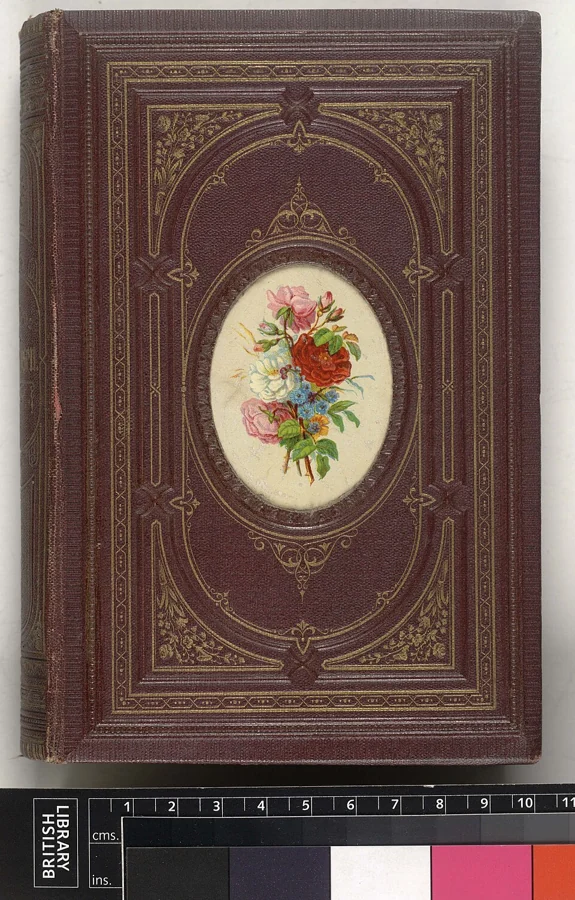
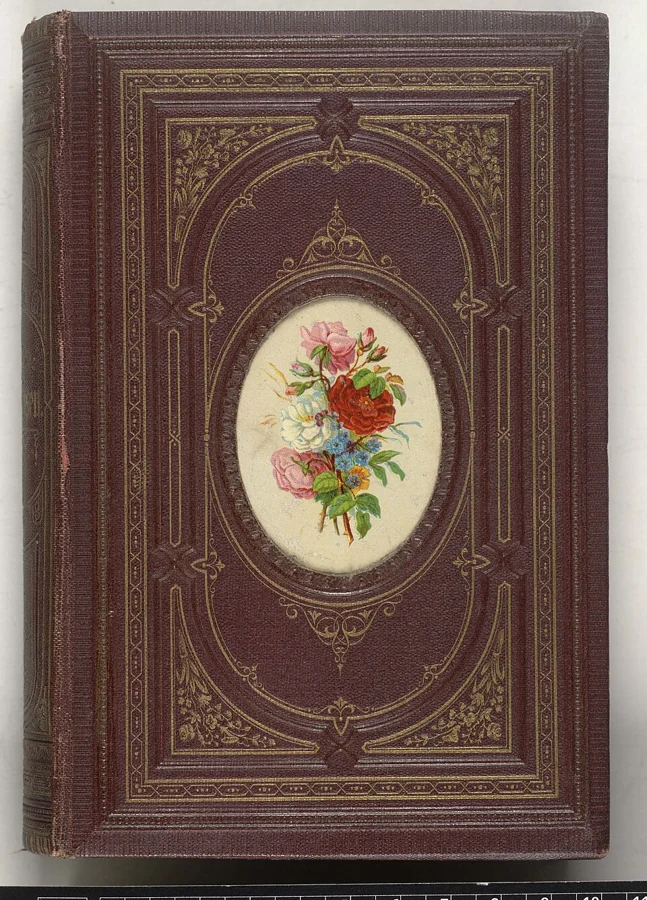
Phone check fixes: quotes, wording, album crop, status bar on pages

diff --git a/app/src/main/java/app/cabinet/ui/museum/MuseumScreen.kt b/app/src/main/java/app/cabinet/ui/museum/MuseumScreen.kt
@@ -230,7 +230,7 @@ private fun Round(h: Home) {
         Row(verticalAlignment = Alignment.CenterVertically) {
             Box(Modifier.size(64.dp).clip(R16).background(h.tint(item.hall))) { Face(item, Modifier.fillMaxSize().padding(6.dp), dim = false) }
             Column(Modifier.padding(start = 14.dp).weight(1f)) {
-                Text(stringArrayResource(R.array.round_q)[q.ask.ordinal].format(item.title.ifBlank { h.inv(item) }), style = T.Strong.copy(fontSize = 16.sp, lineHeight = 21.sp))
+                Text(stringArrayResource(R.array.round_q)[q.ask.ordinal].format(item.title.ifBlank { h.inv(item) }.removeSurrounding("«", "»")), style = T.Strong.copy(fontSize = 16.sp, lineHeight = 21.sp))
                 Text(h.inv(item) + " · " + (h.hallOf[item.hall]?.name ?: ""), style = T.Small, maxLines = 1, modifier = Modifier.padding(top = 2.dp))
             }
         }

diff --git a/app/src/main/java/app/cabinet/CabinetApp.kt b/app/src/main/java/app/cabinet/CabinetApp.kt
@@ -147,7 +147,7 @@ class AppContainer(context: Context) {
                 else -> R.array.visit_any
             }
             val lines = res.getStringArray(pool)
-            val title = i.title.ifBlank { Museum.inv(halls[i.hall]?.code ?: "", i.inv) }
+            val title = i.title.ifBlank { Museum.inv(halls[i.hall]?.code ?: "", i.inv) }.removeSurrounding("«", "»")
             val text = lines[r.nextInt(lines.size)].format(title, halls[i.hall]?.name ?: "", i.place)
             dao.add(Note(day = day, item = i.id, text = text))
         }

diff --git a/app/src/main/java/app/cabinet/ui/Root.kt b/app/src/main/java/app/cabinet/ui/Root.kt
@@ -172,6 +172,7 @@ fun CabinetRoot(s: Settings, tab: Tab = Tab.MUSEUM, overlay: Overlay? = null) {
                 Overlay.Show -> ShowScreen(h, nav)
                 Overlay.Settings -> SettingsPage(h, nav)
             }
+            if (o !is Overlay.Item && o !is Overlay.Edit) StatusScrim(1f)
         }
         ceremony?.let { st -> CeremonyView(st, h) { c.ceremony.value = null } }
         // The first visit to each screen explains it once.

diff --git a/tools/res.py b/tools/res.py
@@ -71,7 +71,7 @@ S = [
     ("fund_wish", "on the wish list", "в списке желаний"),
     ("fund_trade", "spares to swap", "на обмен"),
     ("cer_caps", "The museum has grown", "Музей вырос"),
-    ("cer_body", "The collection now has %1$d exhibits, and the house has grown with it.", "В коллекции уже %1$d экспонатов, и дом вырос вместе с ней."),
+    ("cer_body", "The collection now has %1$d exhibits: the museum has reached a new level.", "В коллекции уже %1$d экспонатов: музей поднялся на новый уровень."),
     ("cer_ok", "Go in", "Войти"),
     # exhibitions
     ("show_title", "Exhibitions", "Выставки"),
@@ -309,8 +309,8 @@ S = [
     ("ob_3b", "Where from, when, how much, where it’s kept, its story. Things without a story stay faded.",
      "Откуда, когда, сколько стоила, где хранится и чем памятна. Вещи без истории остаются бледными."),
     ("ob_4t", "The museum grows", "Музей растёт"),
-    ("ob_4b", "From a cabinet in the hall to a building with a crest. Visitors come, exhibitions open.",
-     "От шкафа в прихожей до здания с гербом. Приходят посетители, открываются выставки."),
+    ("ob_4b", "From a cabinet in the hall to a museum with a crest. Visitors come, exhibitions open.",
+     "От шкафа в прихожей до музея с гербом. Приходят посетители, открываются выставки."),
     ("ob_go", "Next", "Дальше"),
     ("ob_name_t", "What’s the museum called?", "Как назовём музей?"),
     ("ob_name_b", "You can leave it blank and decide later.", "Можно оставить пустым и придумать потом."),
@@ -328,8 +328,8 @@ P = [
     ("no_story_n", ("%d without a story", "%d without a story"), ("%d без истории", "%d без истории", "%d без истории")),
     ("items_n", ("%d exhibit", "%d exhibits"), ("%d экспонат", "%d экспоната", "%d экспонатов")),
     ("cabinets_n", ("%d cabinet", "%d cabinets"), ("%d шкаф", "%d шкафа", "%d шкафов")),
-    ("stage_next", ("%1$d more exhibit to build: %2$s", "%1$d more exhibits to build: %2$s"),
-     ("До следующей стройки («%2$s») ещё %1$d экспонат", "До следующей стройки («%2$s») ещё %1$d экспоната", "До следующей стройки («%2$s») ещё %1$d экспонатов")),
+    ("stage_next", ("%1$d more exhibit to the level «%2$s»", "%1$d more exhibits to the level «%2$s»"),
+     ("До уровня «%2$s» ещё %1$d экспонат", "До уровня «%2$s» ещё %1$d экспоната", "До уровня «%2$s» ещё %1$d экспонатов")),
     ("rank_next", ("Describe %1$d more thing to become %2$s", "Describe %1$d more things to become %2$s"),
      ("Опишите ещё %1$d вещь, и звание станет «%2$s»", "Опишите ещё %1$d вещи, и звание станет «%2$s»", "Опишите ещё %1$d вещей, и звание станет «%2$s»")),
     ("dusty_t", ("%d thing without a story", "%d things without a story"), ("%d вещь без истории", "%d вещи без истории", "%d вещей без истории")),
@@ -350,11 +350,11 @@ P = [
 A = [
     ("tip_museum",
      ["Your museum",
-      "The building grows with the collection: from a cabinet in the hall to a museum with a crest.",
+      "The museum’s level grows with the collection: from a cabinet in the hall to a museum with a crest.",
       "Every evening the keeper asks one question about one thing. The answer goes into its card.",
       "Describe your things and visitors will come; once a week there is an exhibition to put on."],
      ["Это ваш музей",
-      "Здание растёт вместе с коллекцией: от шкафа в прихожей до музея с гербом.",
+      "Уровень музея растёт вместе с коллекцией: от шкафа в прихожей до музея с гербом.",
       "Каждый вечер смотритель задаёт один вопрос о какой-нибудь вещи. Ответ попадает в её карточку.",
       "Описывайте вещи, и придут посетители. Раз в неделю можно собрать выставку."]),
     ("tip_halls",
@@ -368,15 +368,15 @@ A = [
       "Для новой коллекции откройте новый зал, кнопка внизу списка."]),
     ("tip_hall",
      ["Inside the hall",
-      "Tap a cabinet’s name to open it whole.",
-      "The round + button brings in a new thing: photograph it or pick several from the gallery.",
+      "The chips at the top are the hall’s cabinets: tap one to see only its things.",
+      "«New thing» brings one in: photograph it or pick several from the gallery at once.",
       "A series shows how many pieces of a set are still missing.",
-      "The checklist icon at the top is the season’s inventory."],
+      "The checklist icon at the top is the season’s inventory, the gear is the hall’s settings."],
      ["Внутри зала",
-      "Нажмите на название шкафа, чтобы открыть его целиком.",
-      "Круглая кнопка + добавляет вещь: сфотографируйте её или выберите сразу несколько из галереи.",
+      "Чипы сверху — это шкафы зала: нажмите, чтобы оставить только их вещи.",
+      "«Новая вещь» добавляет экспонат: сфотографируйте его или выберите сразу несколько из галереи.",
       "Серия показывает, сколько вещей набора ещё не хватает.",
-      "Значок со списком вверху — инвентаризация раз в сезон."]),
+      "Значок со списком вверху — инвентаризация раз в сезон, шестерёнка — настройки зала."]),
     ("tip_cabinet",
      ["A cabinet",
       "Hold a thing and carry it to another place on the shelves.",

diff --git a/tools/demo/cutout.py b/tools/demo/cutout.py
@@ -15,6 +15,8 @@ OUT = ROOT / "app/src/demo/assets/things"
 
 # Flat covers and sleeves stay whole: a cut-out would eat the cloth and leave only the gilt.
 WHOLE = ("rec_imperial", "rec_beatles", "rec_vox")
+# Museum scans with a colour chart along the bottom edge: the share of the height to drop.
+CROP_BOTTOM = {"book_flower": 0.11}
 
 
 def main():
@@ -25,6 +27,8 @@ def main():
         if dst.exists():
             continue
         im = Image.open(f).convert("RGB")
+        if f.stem in CROP_BOTTOM:
+            im = im.crop((0, 0, im.width, int(im.height * (1 - CROP_BOTTOM[f.stem]))))
         if f.stem.startswith("book_") or f.stem in WHOLE:
             im.thumbnail((900, 900))
             im.save(dst, "WEBP", quality=86, method=6)
